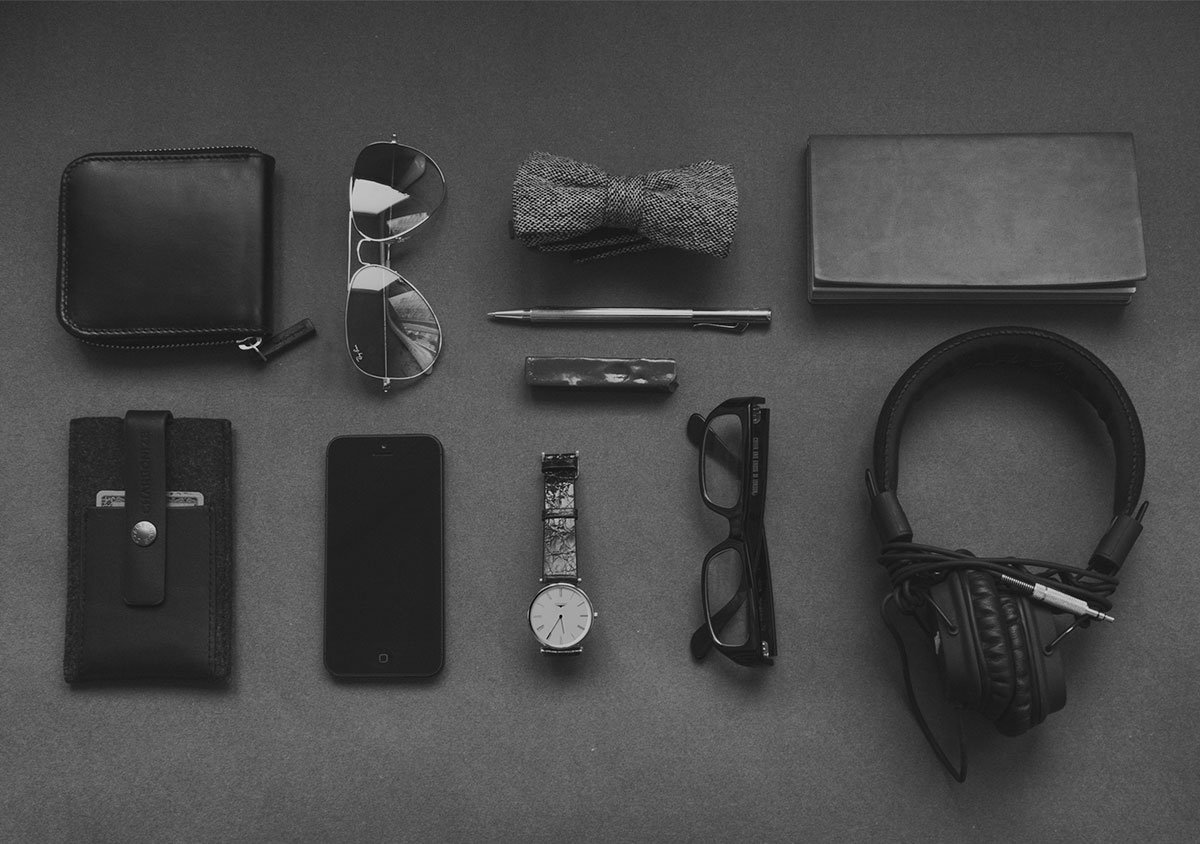
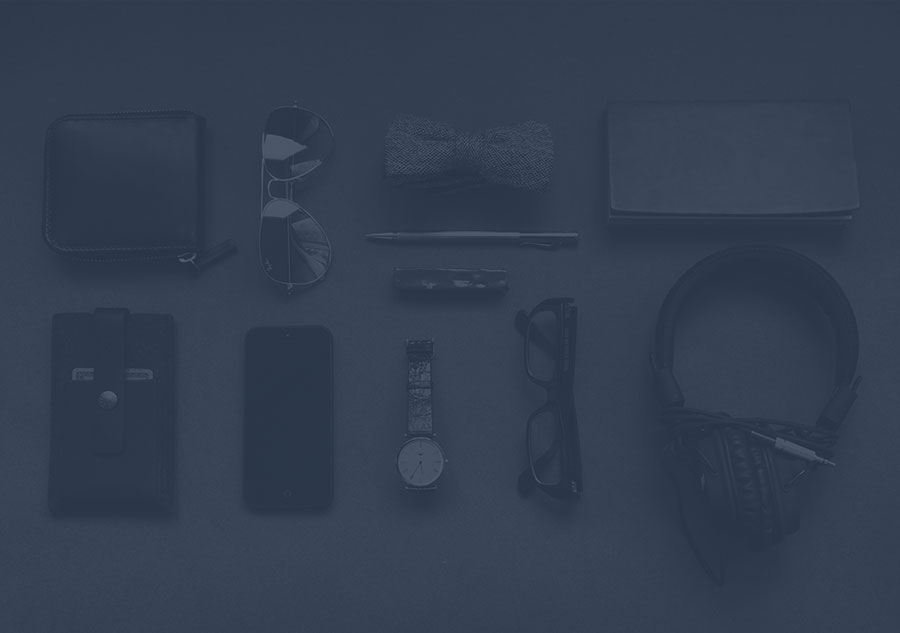
Optimize bg img

diff --git a/scss/_components.scss b/scss/_components.scss
@@ -36,7 +36,7 @@ button, a.button, input[type="submit"]{
 		width: 100%;
 		height: 100%;
 		position: absolute;
-		background: rgba($primary-color, .8);
+		background: rgba($primary-color, .2);
 		z-index: 1;
 	}
 
